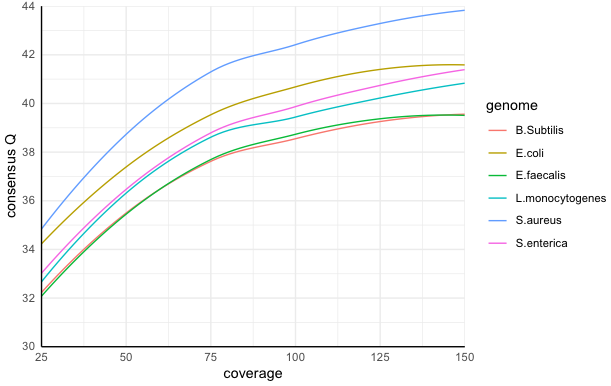
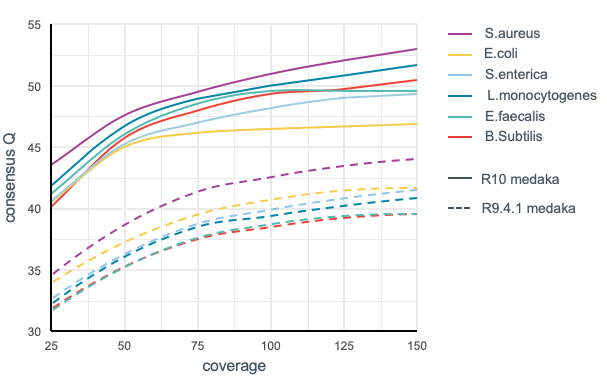
Benchmark corrections

diff --git a/docs/benchmarks.rst b/docs/benchmarks.rst
@@ -67,7 +67,7 @@ Evaluation across samples and depths
 ------------------------------------
 
 The comparison below illustrates results at various coverage depths for a
-collection of further organisms using the R9.4.1 pore. Assemblies were
+collection of further organisms using both the R9.4.1 and R10 pores. Assemblies were
 performed as above with canu and racon, using the ``Guppy v3.0.3`` high accuracy
 basecaller and ``medaka v0.6.5``.
 
@@ -77,8 +77,9 @@ basecaller and ``medaka v0.6.5``.
 Complex organism genome assembly
 --------------------------------
 
-The 100Mbase genome of the nematode worm *C. elegans* was assembled from a 100-fold coverage R10
-dataset, with median read length of 34kb (all reads >20kb) using the
+The 100Mbase genome of the nematode worm *C. elegans* was assembled from a
+`100-fold coverage R10 dataset <https://ont-research.s3-eu-west-1.amazonaws.com/r10_celegans.fq.gz>`_,
+with median read length of 34kb (all reads >20kb) using the
 `canu <https://canu.readthedocs.io/en/latest/index.html>`_,
 `flye <https://github.com/fenderglass/Flye>`_ and
 `shasta <https://github.com/chanzuckerberg/shasta>`_ assemblers.
